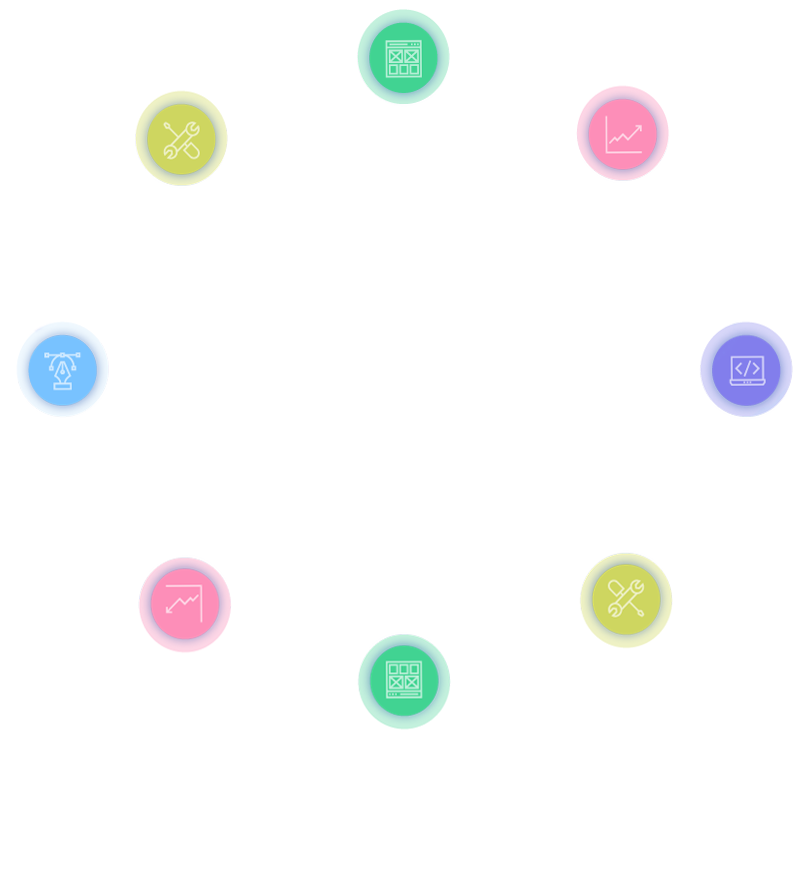
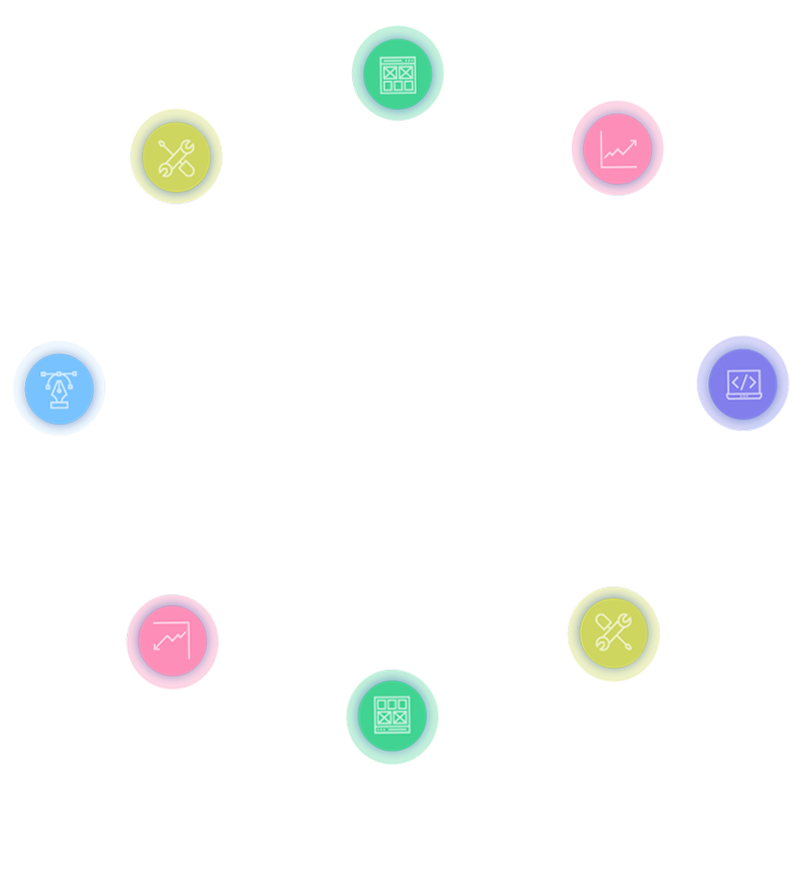
header scroll

diff --git a/app/src/script.js b/app/src/script.js
@@ -1,5 +1,8 @@
 $(document).ready(function () {
 
+    var headerHeight = $('.header').height();
+
+
     $('.toggle-button').click(function () {
         $(this).toggleClass("is-active");
         $(".header .nav").toggleClass("open");
@@ -9,6 +12,7 @@ $(document).ready(function () {
         infinite: true,
         slidesToShow: 4,
         slidesToScroll: 2,
+        // variableWidth: true,
         arrows: false,
         dots: true,
         responsive: [
@@ -22,7 +26,7 @@ $(document).ready(function () {
                 }
             },
             {
-                breakpoint: 1200,
+                breakpoint: 992,
                 settings: {
                     slidesToShow: 2,
                     slidesToScroll: 2
@@ -43,20 +47,52 @@ $(document).ready(function () {
         calibrateY: true,
         invertX: false,
         invertY: true,
-        limitX: 50,
-        limitY: 30,
-        scalarX: 2,
-        scalarY: 8,
+        limitX: false,
+        limitY: 50,
+        scalarX: 6,
+        scalarY: 6,
         frictionX: 0.2,
         frictionY: 0.8,
         originX: 0.0,
         originY: 1.0
     });
 
+/* menu scrolling */
 
-    /******************** MAP ******************/
+    $('.nav__item a').click(function(){
+        $('.nav__item').removeClass("active");
+        $(this).parent().addClass("active");
+        var hashVal = $(this).attr("href");
+        var scrollToPosition = $(hashVal).offset().top - headerHeight;
+        // perform animated scrolling by getting top-position of target-element and set it  as scroll target
+        $('html, body').stop().animate({ scrollTop: scrollToPosition}, 600,  function() {
+            location.hash = target;
+        });
 
-//map  initialization
+        return false;
+    });
+
+$(window).scroll(function(){
+
+var windowPos = $(window).scrollTop();
+
+    if (( windowPos > ($("#about").offset().top - headerHeight))&&( windowPos < $("#prices").offset().top)){
+        $('.floor3').addClass("visible");
+
+        $('.floor2').delay("1200").addClass("visible");
+
+        $('.floor1').delay("1500").addClass("visible");
+ } else {
+        $('.floor1').removeClass("visible");
+
+        $('.floor2').delay("1200").removeClass("visible");
+           // setTimeout("", 1000);
+        $('.floor3').delay("2000").removeClass("visible");
+
+    }
+
+
+});
 
 
 });

diff --git a/app/partials/header.html b/app/partials/header.html
@@ -9,13 +9,13 @@
         </div>
 
         <ul class="nav">
-            <li class="nav__item"><a href="" class="nav__link">Преимущества</a></li>
-            <li class="nav__item  active"><a href="" class="nav__link">О нас</a></li>
-            <li class="nav__item"><a href="" class="nav__link">Цены</a></li>
-            <li class="nav__item logo"><img src="img/millenium-logo.png" alt=""></li>
-            <li class="nav__item"><a href="" class="nav__link">Наша команда</a></li>
-            <li class="nav__item"><a href="" class="nav__link">Галерея</a></li>
-            <li class="nav__item"><a href="" class="nav__link">Контакты</a></li>
+            <li class="nav__item"><a href="#profits" class="nav__link">Преимущества</a></li>
+            <li class="nav__item  active"><a href="#about" class="nav__link">О нас</a></li>
+            <li class="nav__item"><a href="#prices" class="nav__link">Цены</a></li>
+            <li class="nav__item logo"><a href="#first"><img src="img/millenium-logo.png" alt=""></a></li>
+            <li class="nav__item"><a href="#team" class="nav__link">Наша команда</a></li>
+            <li class="nav__item"><a href="#portfolio" class="nav__link">Галерея</a></li>
+            <li class="nav__item"><a href="#contacts" class="nav__link">Контакты</a></li>
         </ul>
     </div>
 </header>

diff --git a/app/src/blocks/start.scss b/app/src/blocks/start.scss
@@ -75,7 +75,7 @@
   }
   .graphics {
     position: absolute;
-    padding-bottom: 45%;
+    padding-bottom: 35%;
     width: 45%;
     //height: 480px;
     right: 0;
@@ -84,7 +84,7 @@
 
     &__cut{
       width: 100%;
-      padding-bottom: 95%;
+      padding-bottom: 73%;
       position: absolute;
 
       top: 0;
@@ -92,7 +92,9 @@
       overflow: hidden;
 
       @include screen-lg(){
-
+        padding-bottom: 85%;
+        top: auto;
+        bottom: 25px;
       }
     }
 
@@ -119,16 +121,22 @@
     }
     .circles {
       position: absolute;
-      width: 90%;
-      height: 95%;
-      top: 35%;
-      left: 5%;
+      width: 100%;
+      height: 120%;
+      top: 10%;
+      left: -0.5%;
       animation: spin 30s linear infinite;
-      background: url("../img/circles.png") top no-repeat;
+      background: url("../img/circles-full.png") top no-repeat;
       background-size: contain;
 
       @include screen-xl(){
-        top: 12%;
+        top: 7%;
+        height:100%;
+      }
+
+      @include screen-lg(){
+
+        top: 22%;
       }
 
     }

diff --git a/app/partials/team.html b/app/partials/team.html
@@ -9,10 +9,10 @@
         </div>
 
 
-            <ul id="scene" class="wave scene" data-calibrate-x="false" >
-                <li class="layer" data-depth="-0.00"><img src="img/layer6.png"></li>
-                <li class="layer" data-depth="0.20" data-depth-y="-0.80"><img src="img/layer5.png"></li>
-                <li class="layer" data-depth="-0.40" data-depth-y="-0.20"><img src="img/layer4.png"></li>
+            <ul id="scene" class="wave scene"  >
+                <li class="layer" data-depth="0.10"><img src="img/layer6.png"></li>
+                <li class="layer" data-depth="0.20" data-depth-y="-0.40"><img src="img/layer5.png"></li>
+                <li class="layer" data-depth="-0.40" data-depth-y="0.20"><img src="img/layer4.png"></li>
                 <li class="layer" data-depth="0.60" data-depth-y="-0.30"><img src="img/layer3.png"></li>
                 <li class="layer" data-depth="-0.80"><img src="img/layer2.png"></li>
                 <li class="layer" data-depth="1.00"><img src="img/layer1.png"></li>

diff --git a/app/src/blocks/team.scss b/app/src/blocks/team.scss
@@ -28,10 +28,11 @@
     background: #fff;
     border-radius: 4px;
     box-shadow: 0px 0px 15px 0px rgba(50, 50, 50, 0.75);
+    outline: none;
 
     &__img{
       width: 55%;
-      height: 60%;
+      padding-bottom: 55%;
       border-radius: 50%;
       border:10px solid #fff;
       box-shadow: 0px 0px 15px 0px rgba(50, 50, 50, 0.75);
@@ -43,7 +44,7 @@
       text-transform: uppercase;
       font-weight:900;
       font-size: 1.3em;
-      margin-top: 9rem;
+      margin-top: 40%;
       text-align: center;
       color: $font-gray-dark
     }
@@ -77,16 +78,23 @@
     margin:0;
     list-style: none;
     width: 100%;
-    bottom: 0;
+    bottom: -5px;
     left:0;
-    height: 60%;
+    height:70%;
     overflow: hidden;
 
     .layer{
       position: absolute;
-      left:0;
+      max-height:70%;
+      left:-5% !important;
+
+      @include screen-xl(){
+        bottom: 0 !important;
+        top: auto !important;
+      }
       img{
-        width:100%;
+        width:110%;
+
       }
     }
   }

diff --git a/app/partials/contacts.html b/app/partials/contacts.html
@@ -218,7 +218,7 @@
                 <input name="name" id="Name" maxlength="20" placeholder="Имя" required/>
                 <input name="telephone" type="Tel" id="Phone" maxlength="20" placeholder="Телефон" required/>
                 <textarea name="message" id="Message" cols="30" placeholder="Сообщение" rows="3"></textarea>
-                <button class="btn " type="submit" form="application">отправить</button>
+                <button class="btn --blue-fill" type="submit" form="application">отправить</button>
             </form>
         </div>
     </div>

diff --git a/app/src/blocks/about.scss b/app/src/blocks/about.scss
@@ -4,6 +4,8 @@
   background-size: contain;
   position: relative;
 
+
+
   .content {
     width: 45%;
     padding-left: 5%;
@@ -45,6 +47,7 @@
     width: 45%;
     height: 40vw;
 
+
     @include screen-md{
       width: 100%;
       height: 60vw;
@@ -54,6 +57,12 @@
     }
     .floor1,.floor2,.floor3{
 
+      transition: transform 0.5s ease;
+      transform: translateX(800px);
+
+      &.visible{
+       transform: translateX(0);
+      }
       @include screen-xs(){
         width: 50%;
       }

diff --git a/app/src/global/global.scss b/app/src/global/global.scss
@@ -75,6 +75,7 @@ section{
   color: #fff;
   font-size: 1.2rem;
   padding: 1rem;
+  background: transparent;
   display: inline-block;
   border: 2px solid #fff;
   border-radius: 4px;
@@ -100,7 +101,7 @@ section{
   }
 
   &:hover{
-    color: $dark-blue;
+    color: $blue;
     cursor: pointer;
 
     &:after{
@@ -124,4 +125,10 @@ section{
       border-radius: 4px;
     }
   }
+}
+
+.--blue-fill{
+  background: $blue;
+  color: #fff;
+
 }
